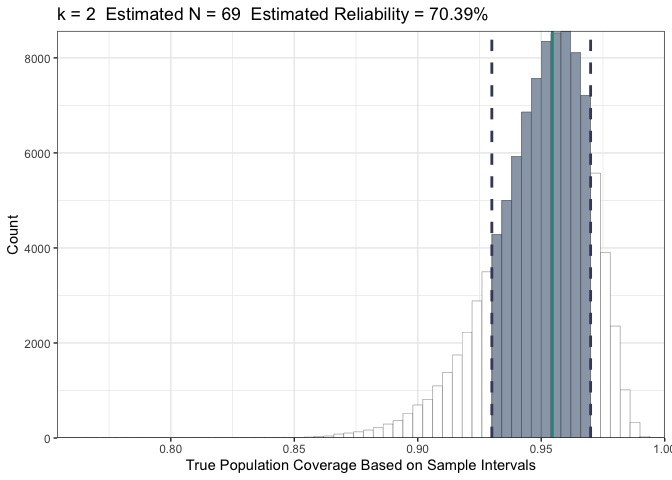
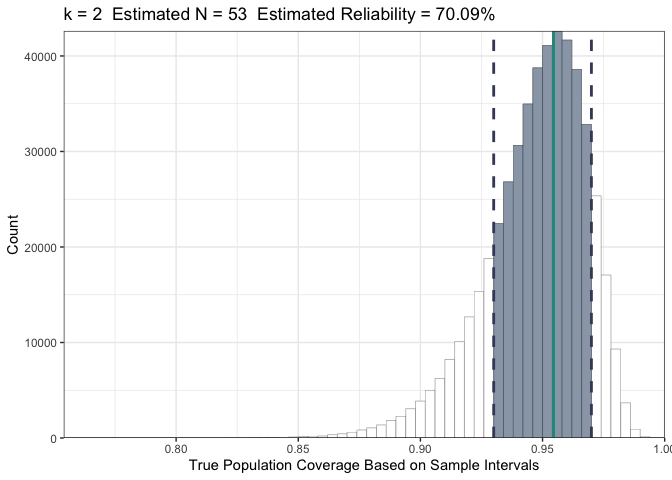
update tests and documentation

diff --git a/README.md b/README.md
@@ -83,13 +83,13 @@ find_n_ksigma(
   seed = 12345
 )
 #> $sample_size
-#> [1] 69
+#> [1] 53
 #> 
 #> $k_constant
 #> [1] 2
 #> 
 #> $reliability_hat
-#> [1] 0.70393
+#> [1] 0.700928
 ```
 
 The required sample size is correlated with the target reliability and
@@ -104,13 +104,13 @@ find_n_ksigma(
   seed = 12345
 )
 #> $sample_size
-#> [1] 104
+#> [1] 79
 #> 
 #> $k_constant
 #> [1] 2
 #> 
 #> $reliability_hat
-#> [1] 0.80095
+#> [1] 0.8002
 
 # Increase width of proximity range to 92% - 98%
 find_n_ksigma(
@@ -120,13 +120,13 @@ find_n_ksigma(
   seed = 12345
 )
 #> $sample_size
-#> [1] 31
+#> [1] 25
 #> 
 #> $k_constant
 #> [1] 2
 #> 
 #> $reliability_hat
-#> [1] 0.70673
+#> [1] 0.703056
 ```
 
 There are some cases in which pre-specifying `k` may generate larger
@@ -147,13 +147,13 @@ find_n_ksigma(
   seed = 12345
 )
 #> $sample_size
-#> [1] 206
+#> [1] 143
 #> 
 #> $k_constant
 #> [1] 2
 #> 
 #> $reliability_hat
-#> [1] 0.69947
+#> [1] 0.70016
 
 # Allowing k to be set to the mid-point of the proximity range (0.945)
 find_n_ksigma(
@@ -162,13 +162,13 @@ find_n_ksigma(
   seed = 12345
 )
 #> $sample_size
-#> [1] 142
+#> [1] 114
 #> 
 #> $k_constant
 #> [1] 1.918876
 #> 
 #> $reliability_hat
-#> [1] 0.69944
+#> [1] 0.701558
 ```
 
 Setting `verbose = TRUE` provides real-time information on the progress
@@ -186,21 +186,21 @@ find_n_ksigma(
 #> ℹ Round:1  a:3  b:500
 #> ℹ Round:2  a:3  b:252
 #> ℹ Round:3  a:3  b:128
-#> ℹ Round:4  a:66  b:128
-#> ℹ Round:5  a:66  b:97
-#> ℹ Round:6  a:66  b:82
-#> ℹ Round:7  a:66  b:74
-#> ℹ Round:8  a:66  b:70
-#> ℹ Round:9  a:68  b:70
-#> ℹ Round:10  a:68  b:69
+#> ℹ Round:4  a:3  b:66
+#> ℹ Round:5  a:35  b:66
+#> ℹ Round:6  a:51  b:66
+#> ℹ Round:7  a:51  b:59
+#> ℹ Round:8  a:51  b:55
+#> ℹ Round:9  a:51  b:53
+#> ℹ Round:10  a:52  b:53
 #> $sample_size
-#> [1] 69
+#> [1] 53
 #> 
 #> $k_constant
 #> [1] 2
 #> 
 #> $reliability_hat
-#> [1] 0.70393
+#> [1] 0.700928
 ```
 
 Setting `plot = TRUE` generates a histogram of the sample coverages,
@@ -216,13 +216,13 @@ find_n_ksigma(
   plot = TRUE
 )
 #> $sample_size
-#> [1] 69
+#> [1] 53
 #> 
 #> $k_constant
 #> [1] 2
 #> 
 #> $reliability_hat
-#> [1] 0.70393
+#> [1] 0.700928
 #> 
 #> $reliability_plot
 ```
